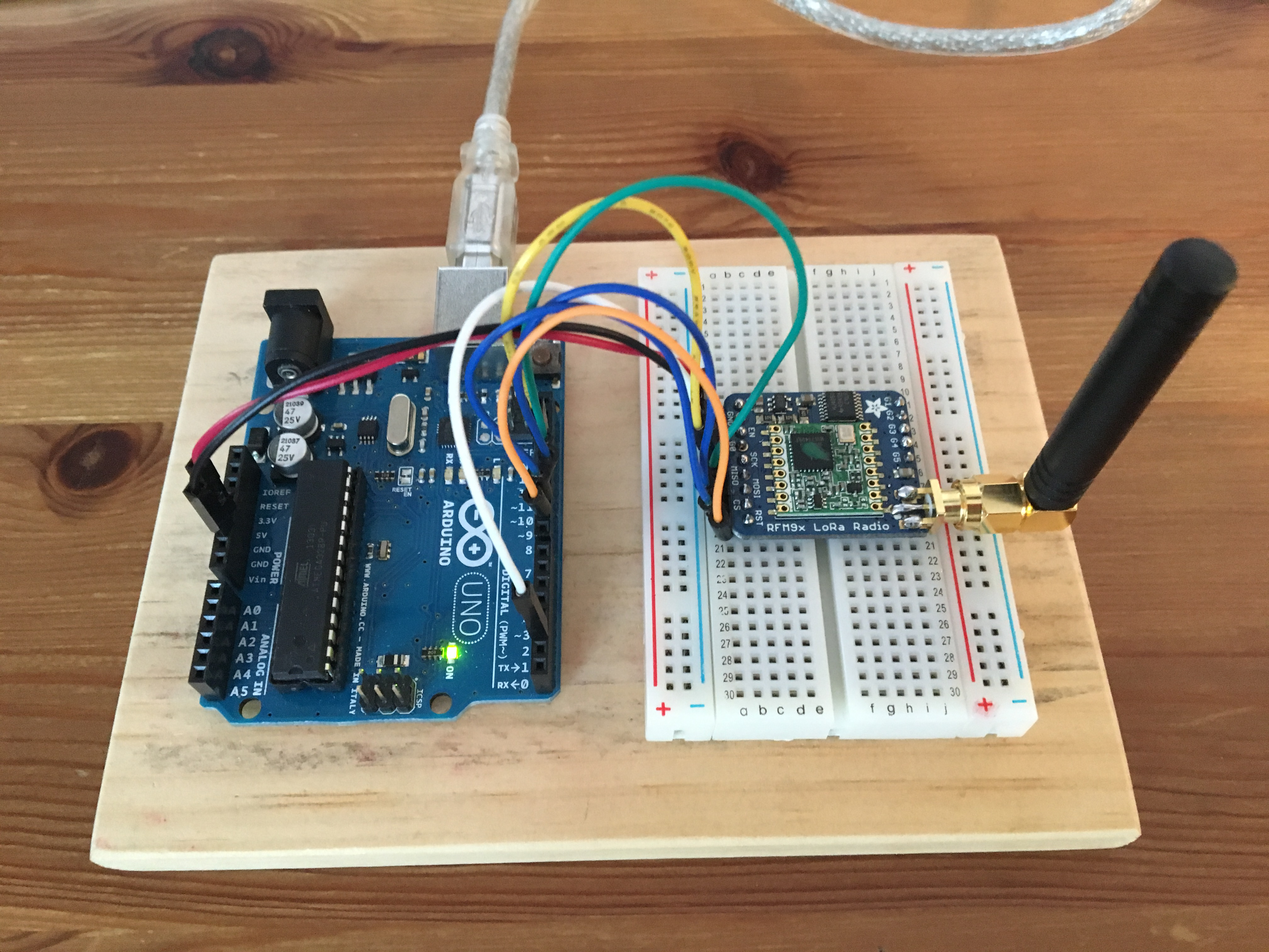
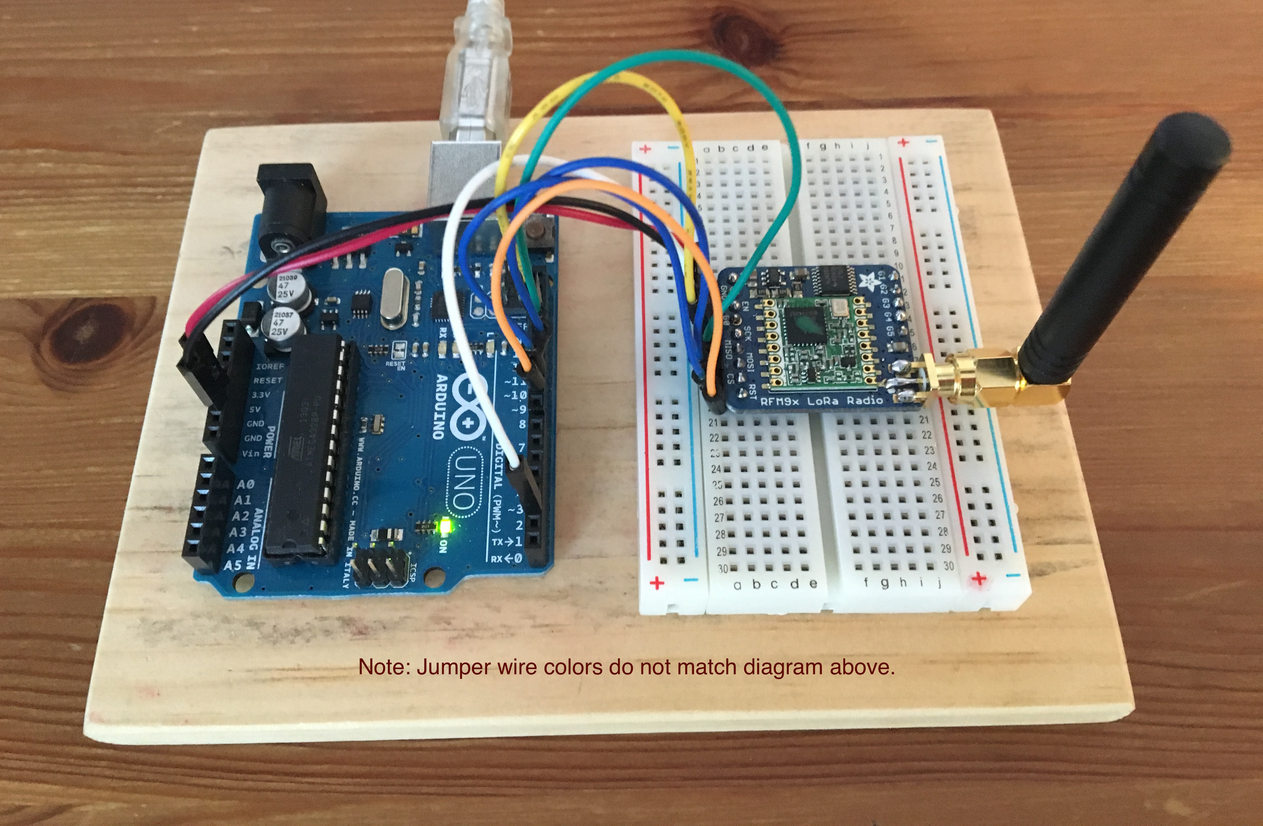
Updated photo of radio and incorporated the image into the README.

diff --git a/README.md b/README.md
@@ -24,3 +24,5 @@ TODO Steps will be written here once the project is tested and deployed.
 ###Hardware
 
 ![LoRa Packet Radio](LoRaRadioRXClientHardware.png)
+
+![LoRa Packet Radio Photo](LoRaRadioRXClientHardware.JPG)
